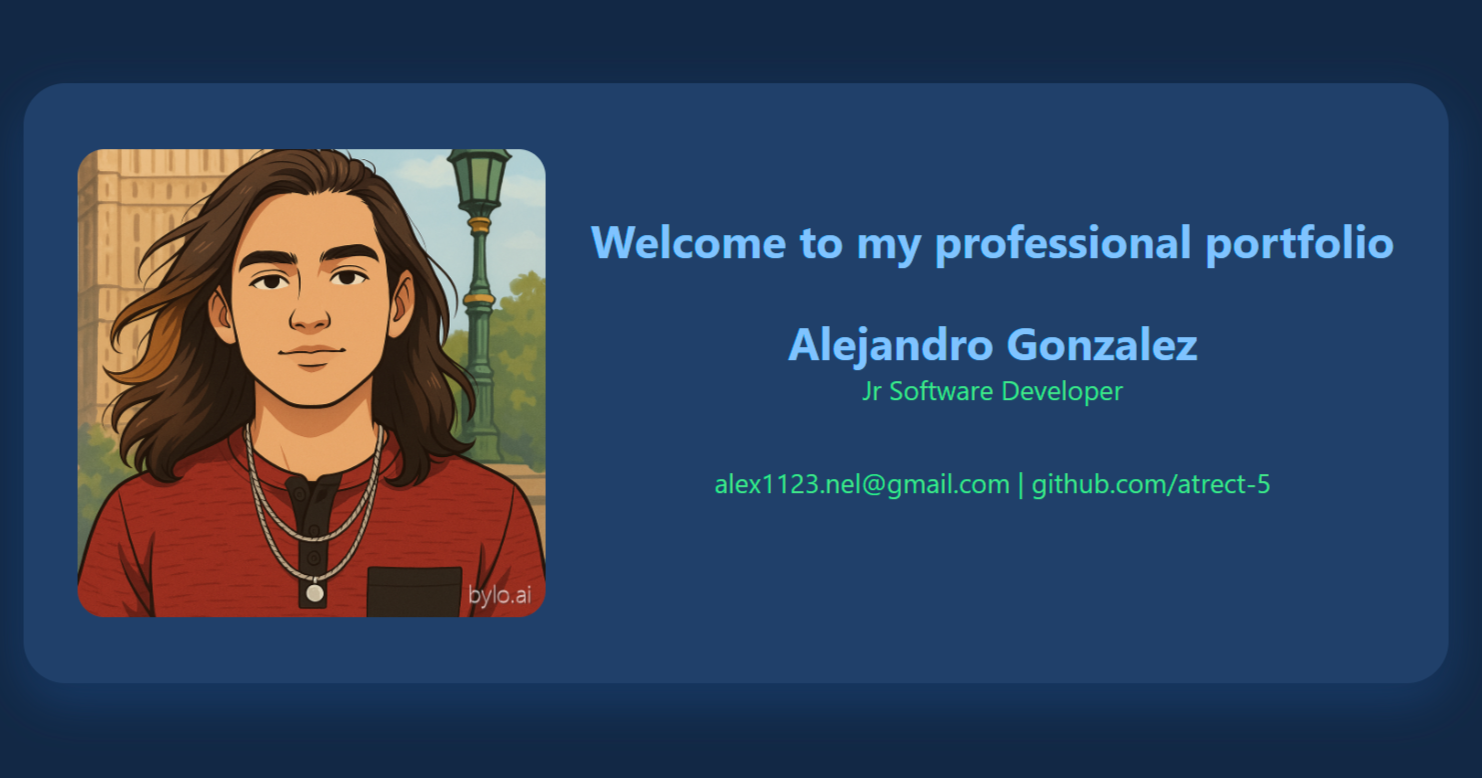
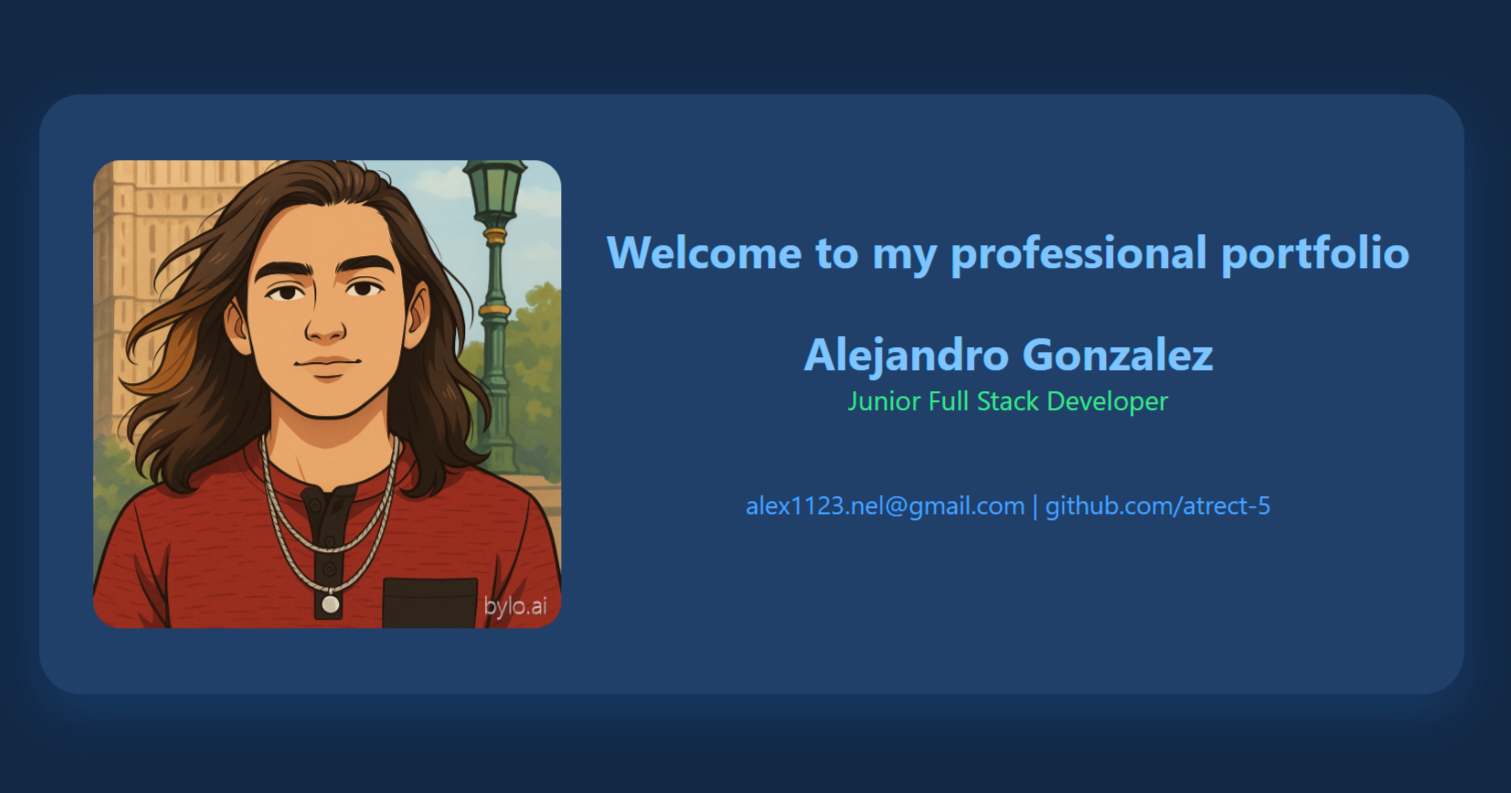
Some changes in presentation

diff --git a/index.html b/index.html
@@ -264,62 +264,24 @@
         </section>
         <hr>
         <section class="education">
-            <h2 data-section="education" data-value="title">Educación</h2><br>         
-            <article>
-                <div class="school-info">
-                    <div class="school-description">
-                        <div class="school-title-row">
-                            <h3>Centro de Enseñanza Técnica Industrial</h3>
-                            <p class="period-label">2017 - 2021</p>
-                        </div>
-                        <p data-section="education" data-value="school-1.description">Formación como tecnólogo en desarrollo de software, donde adquirí las bases de la programación, electrónica y redes. Aquí desarrollé mi lógica de programación.</p>
-                    </div>
-                    <img src="./assets/ceti_logo.png" alt="ceti_logo" class="school-logo">
-                </div>
-                <div class="school-learning">
-                    <p><strong data-section="education" data-value="school-1.tools-learned">Principales herramientas que aprendí:</strong></p>
-                    <ul>
-                        <li>
-                            <h4 data-section="education" data-value="school-1.languages-title">Lenguajes:</h4>
-                            <span class="tool-icon-container"><i class="fa-solid fa-microchip"></i> Assembler</span>
-                            <span class="tool-icon-container">
-                                <img src="./assets/icon_cpp_dark.png" alt="tool_icon" class="icon no-pointer" data-icon="icon_cpp"> C++
-                            </span>
-                            <span class="tool-icon-container"><i class="fab fa-java"></i> Java (Android Studio)</span>
-                            <span class="tool-icon-container"><i class="fab fa-php"></i> PHP</span>
-                        </li>
-                        <li>
-                            <h4 data-section="education" data-value="school-1.database-title">Bases de datos:</h4>    
-                            <span class="tool-icon-container"><i class="fa fas fa-database"></i> MariaDB</span>
-                        </li>
-                        <li>
-                            <h4 data-section="education" data-value="school-1.tools-title">Herramientas:</h4>
-                            <span class="tool-icon-container">
-                                <img src="./assets/icon_xampp_dark.png" alt="tool_icon" class="icon no-pointer" data-icon="icon_xampp"> XAMPP
-                            </span>
-                            <span class="tool-icon-container"><i class="fa-solid fa-house-signal"></i> Packet Tracer</span>
-                        </li>
-                    </ul>
-                </div>
-            </article>
-            <hr class="little-separation">
+            <h2 data-section="education" data-value="title">Educación</h2><br>
             <article>
                 <div class="school-info">
                     <div class="school-description">
                         <div class="school-title-row">
                             <h3>Azul School</h3>
-                            <p class="period-label" data-section="education" data-value="school-2.time-lapse">2023 - Actualidad</p>
+                            <p class="period-label" data-section="education" data-value="school-1.time-lapse">2023 - Actualidad</p>
                         </div>
-                            <p data-section="education" data-value="school-2.description">Escuela en línea enfocada en formación práctica y certificaciones. He complementado mis estudios con cursos especializados en desarrollo web y backend.</p>
+                            <p data-section="education" data-value="school-1.description">Escuela en línea enfocada en formación práctica y certificaciones. He complementado mis estudios con cursos especializados en desarrollo web y backend.</p>
                     </div>
                     <img src="./assets/azul_school_logo.png" alt="azul_school_logo" class="school-logo">
                 </div>
                 <div class="school-learning">
-                    <p><strong data-section="education" data-value="school-2.tools-learned">Cursos aprendidos:</strong></p>
+                    <p><strong data-section="education" data-value="school-1.tools-learned">Cursos aprendidos:</strong></p>
                     <ul>
                         <li>
                             <span class="tool-icon-container no-margin-right"><i class="fa-brands fa-git-alt"></i> Git</span>
-                            <span data-section="education" data-value="school-2.course-list.course-1">y</span>
+                            <span data-section="education" data-value="school-1.course-list.course-1">y</span>
                             <span class="tool-icon-container no-margin-right"><i class="fab fa-github"></i> Github</span>
                             <div class="course-actions">
                                 <a href="./pdf/Certificado-Git-y-GitHub-Azul-School.pdf" target="_blank" rel="noopener noreferrer">
@@ -332,7 +294,7 @@
                         </li>
                         <li>
                             <span class="tool-icon-container no-margin-right"><i class="fab fa-angular"></i> Angular</span>
-                            <span data-section="education" data-value="school-2.course-list.course-2">desde 0</span>
+                            <span data-section="education" data-value="school-1.course-list.course-2">desde 0</span>
                             <div class="course-actions">
                                 <a href="./pdf/Certificado-Curso-de-Angular-desde-cero-Azul-School.pdf" target="_blank" rel="noopener noreferrer">
                                     <i class="fa-solid fa-certificate icon-see"></i>
@@ -343,7 +305,7 @@
                             </div>
                         </li>
                         <li>
-                            <span data-section="education" data-value="school-2.course-list.course-3">Curso profesional de</span>
+                            <span data-section="education" data-value="school-1.course-list.course-3">Curso profesional de</span>
                             <span class="tool-icon-container no-margin-right"><i class="fab fa-js"></i> JavaScript</span>
                             <div class="course-actions">
                                 <a href="./pdf/Curso-profesional-de-JavaScript-Azul-School.pdf" target="_blank" rel="noopener noreferrer">
@@ -355,7 +317,7 @@
                             </div>
                         </li>
                         <li>
-                            <span data-section="education" data-value="school-2.course-list.course-4">Curso profesional de</span>
+                            <span data-section="education" data-value="school-1.course-list.course-4">Curso profesional de</span>
                             <span class="tool-icon-container no-margin-right"><i class="fab fa-node-js"></i> Node JS</span>
                             <div class="course-actions">
                                 <a href="./pdf/Certificado-Curso-profesional-de-NodeJS-Azul-School.pdf" target="_blank" rel="noopener noreferrer">
@@ -367,7 +329,7 @@
                             </div>
                         </li>
                         <li>
-                            <span data-section="education" data-value="school-2.course-list.course-5">Curso profesional de</span>
+                            <span data-section="education" data-value="school-1.course-list.course-5">Curso profesional de</span>
                             <span class="tool-icon-container no-margin-right"><i class="fab fa-react"></i> React</span>
                             <div class="course-actions">
                                 <a href="./pdf/Certificado-Curso-profesional-de-React-Azul-School.pdf" target="_blank" rel="noopener noreferrer">
@@ -379,7 +341,7 @@
                             </div>
                         </li>
                         <li>
-                            <span data-section="education" data-value="school-2.course-list.course-6">Curso profesional de</span>
+                            <span data-section="education" data-value="school-1.course-list.course-6">Curso profesional de</span>
                             <span class="tool-icon-container no-margin-right"><i class="fab fa-python"></i> Python</span>
                             <div class="course-actions">
                                 <a href="./pdf/Certificado-Curso-profesional-de-Python-Azul-School.pdf" target="_blank" rel="noopener noreferrer">
@@ -389,6 +351,44 @@
                                     <i class="fab fa-github icon-see"></i>
                                 </a>
                             </div>
+                        </li>
+                    </ul>
+                </div>
+            </article>    
+            <hr class="little-separation">    
+            <article>
+                <div class="school-info">
+                    <div class="school-description">
+                        <div class="school-title-row">
+                            <h3>Centro de Enseñanza Técnica Industrial</h3>
+                            <p class="period-label">2017 - 2021</p>
+                        </div>
+                        <p data-section="education" data-value="school-2.description">Formación como tecnólogo en desarrollo de software, donde adquirí las bases de la programación, electrónica y redes. Aquí desarrollé mi lógica de programación.</p>
+                    </div>
+                    <img src="./assets/ceti_logo.png" alt="ceti_logo" class="school-logo">
+                </div>
+                <div class="school-learning">
+                    <p><strong data-section="education" data-value="school-2.tools-learned">Principales herramientas que aprendí:</strong></p>
+                    <ul>
+                        <li>
+                            <h4 data-section="education" data-value="school-2.languages-title">Lenguajes:</h4>
+                            <span class="tool-icon-container"><i class="fa-solid fa-microchip"></i> Assembler</span>
+                            <span class="tool-icon-container">
+                                <img src="./assets/icon_cpp_dark.png" alt="tool_icon" class="icon no-pointer" data-icon="icon_cpp"> C++
+                            </span>
+                            <span class="tool-icon-container"><i class="fab fa-java"></i> Java (Android Studio)</span>
+                            <span class="tool-icon-container"><i class="fab fa-php"></i> PHP</span>
+                        </li>
+                        <li>
+                            <h4 data-section="education" data-value="school-2.database-title">Bases de datos:</h4>    
+                            <span class="tool-icon-container"><i class="fa fas fa-database"></i> MariaDB</span>
+                        </li>
+                        <li>
+                            <h4 data-section="education" data-value="school-2.tools-title">Herramientas:</h4>
+                            <span class="tool-icon-container">
+                                <img src="./assets/icon_xampp_dark.png" alt="tool_icon" class="icon no-pointer" data-icon="icon_xampp"> XAMPP
+                            </span>
+                            <span class="tool-icon-container"><i class="fa-solid fa-house-signal"></i> Packet Tracer</span>
                         </li>
                     </ul>
                 </div>

diff --git a/lang/es.js b/lang/es.js
@@ -5,7 +5,7 @@ export default {
     },
     "title": "Bienvenido a mi portafolio profesional",
     "profile": {
-        "description": "Desarrollador de software Jr",
+        "description": "Desarrollador Full Stack Junior",
         "open-to-work": "Disponible para trabajar"
     },
     "about-me": {
@@ -33,13 +33,6 @@ export default {
     "education": {
         "title": "Educación",
         "school-1": {
-            "description": "Formación como tecnólogo en desarrollo de software, donde adquirí las bases de la programación, electrónica y redes. Aquí desarrollé mi lógica de programación.",
-            "tools-learned": "Principales herramientas que aprendí:",
-            "languages-title": "Lenguajes", 
-            "database-title": "Bases de datos",
-            "tools-title": "Herramientas"
-        },
-        "school-2": {
             "time-lapse": "2023 - Actualidad", 
             "description": "Escuela en línea enfocada en formación práctica y certificaciones. He complementado mis estudios con cursos especializados en desarrollo web y backend.",
             "tools-learned": "Cursos aprendidos:",
@@ -51,6 +44,13 @@ export default {
                 "course-5": "Curso profesional de",
                 "course-6": "Curso profesional de"
             }
+        },
+        "school-2": {
+            "description": "Formación como tecnólogo en desarrollo de software, donde adquirí las bases de la programación, electrónica y redes. Aquí desarrollé mi lógica de programación.",
+            "tools-learned": "Principales herramientas que aprendí:",
+            "languages-title": "Lenguajes", 
+            "database-title": "Bases de datos",
+            "tools-title": "Herramientas"
         }
     },
     "footer": {

diff --git a/lang/en.js b/lang/en.js
@@ -5,7 +5,7 @@ export default {
     },
     "title": "Welcome to my professional portfolio",
     "profile": {
-        "description": "Junior Software Developer",
+        "description": "Junior Full Stack Developer",
         "open-to-work": "Open to work"
     },
     "about-me": {
@@ -33,13 +33,6 @@ export default {
     "education": {
         "title": "Education",
         "school-1": {
-            "description": "Training as a software development technologist, where I acquired the fundamentals of programming, electronics, and networking. Here, I developed my programming logic.",
-            "tools-learned": "Key tools I learned:",
-            "languages-title": "Languages", 
-            "database-title": "Databases",
-            "tools-title": "Tools"
-        },
-        "school-2": {
             "time-lapse": "2023 - Now", 
             "description": "Online school focused on practical training and certifications. I have complemented my studies with specialized courses in web and backend development.",
             "tools-learned": "Completed courses:",
@@ -51,6 +44,13 @@ export default {
                 "course-5": "Professional course in",
                 "course-6": "Professional course in"
             }
+        },
+        "school-2": {
+            "description": "Training as a software development technologist, where I acquired the fundamentals of programming, electronics, and networking. Here, I developed my programming logic.",
+            "tools-learned": "Key tools I learned:",
+            "languages-title": "Languages", 
+            "database-title": "Databases",
+            "tools-title": "Tools"
         }
     },
     "footer": {
